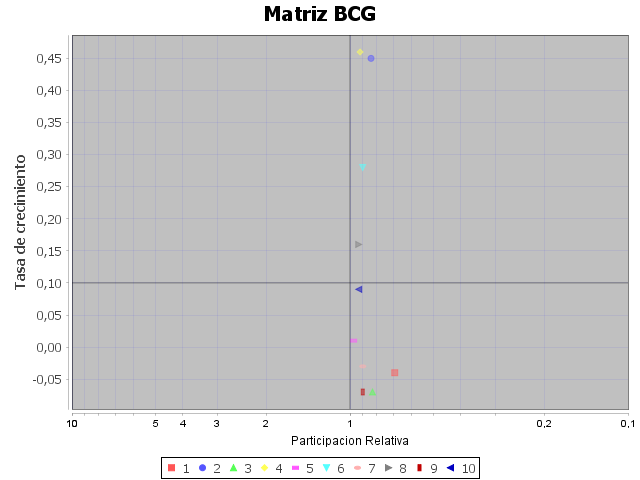
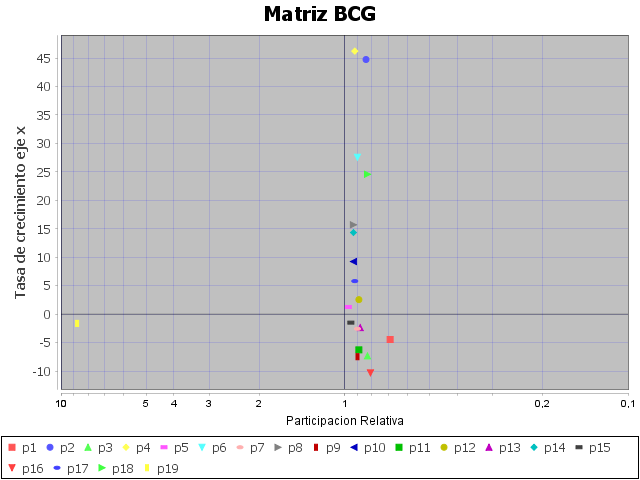
v3

Changed region(s): [[0.0, 0.0625, 1.0, 1.0], [0.9688, 0.9688, 1.0, 1.0], [0.5938, 0.6875, 0.625, 0.7188]]

diff --git a/src/view/dashboard.java b/src/view/dashboard.java
@@ -21,7 +21,9 @@ import java.util.logging.Level;
 import java.util.logging.Logger;
 import javax.swing.JFrame;
 import javax.swing.JPanel;
+import javax.swing.table.AbstractTableModel;
 import javax.swing.table.DefaultTableModel;
+import javax.swing.table.TableModel;
 import model.TablaBcg;
 import model.Usuario;
 import org.jfree.chart.ChartFactory;
@@ -33,6 +35,9 @@ import org.jfree.chart.axis.NumberAxis;
 import org.jfree.chart.plot.PlotOrientation;
 import org.jfree.chart.plot.ValueMarker;
 import org.jfree.chart.plot.XYPlot;
+import org.jfree.data.time.TimeSeries;
+import org.jfree.data.time.TimeSeriesCollection;
+import org.jfree.data.xy.XYDataItem;
 import org.jfree.data.xy.XYDataset;
 import org.jfree.data.xy.XYSeries;
 import org.jfree.data.xy.XYSeriesCollection;
@@ -53,6 +58,7 @@ public class dashboard extends javax.swing.JFrame implements Runnable {
     private DatosBcg cldb;
     clsExportarExcel obj;
     Usuario usuario;
+    static int count = 0;
 
     public dashboard() {
         initComponents();
@@ -79,29 +85,47 @@ public class dashboard extends javax.swing.JFrame implements Runnable {
     }
 
     private XYDataset crearDatos() {
+
         DefaultTableModel miTableModel = (DefaultTableModel) tabla.getModel();
         int nFilas = tabla.getRowCount();
         int n = 0;
         XYSeries series = null;
         XYSeriesCollection datos = new XYSeriesCollection();
         for (int i = 1; i < nFilas; i++) {
-            if (tabla.getValueAt(i, 3) == null || tabla.getValueAt(i, 4) == null) {
-                System.out.println("No hay valores en X o Y");
-            } else {
-                n++;
-                series = new XYSeries(i, true);
+            //initiate new series
+            series = new XYSeries("p" + Integer.toString(i));
+            for (int k = i; k < i + 1; k++) {
                 series.add((double) tabla.getValueAt(i, 3), (double) tabla.getValueAt(i, 4));
-                datos.addSeries(series);
-//                test(series);
-                rangoVaca(series);
-                rangoPerro(series);
-                rangoEstrella(series);
-                rangoInterrogante(series);
+                prueba(series);
             }
 
+            //add series to dataset
+            datos.addSeries(series);
         }
 
         return datos;
+    }
+
+    public XYSeriesCollection functionDataCollecter() {
+        int nFilas = tabla.getRowCount();
+        //a single line on a chart
+        XYSeries series = null;
+
+        //a collection of series
+        XYSeriesCollection dataset = new XYSeriesCollection();
+
+        for (int i = 1; i < nFilas; i++) {
+            //initiate new series
+            series = new XYSeries("p" + Integer.toString(i));
+            for (int k = i; k < i + 1; k++) {
+                series.add((double) tabla.getValueAt(i, 3), (double) tabla.getValueAt(i, 4));
+
+            }
+            //add series to dataset
+            dataset.addSeries(series);
+        }
+        calcularMatrizPrueba(dataset);
+        return dataset;
     }
 
     /**
@@ -389,24 +413,23 @@ public class dashboard extends javax.swing.JFrame implements Runnable {
         pnl1.setLayout(pnl1Layout);
         pnl1Layout.setHorizontalGroup(
             pnl1Layout.createParallelGroup(javax.swing.GroupLayout.Alignment.LEADING)
-            .addGroup(pnl1Layout.createSequentialGroup()
+            .addComponent(jScrollPane2, javax.swing.GroupLayout.Alignment.TRAILING)
+            .addGroup(javax.swing.GroupLayout.Alignment.TRAILING, pnl1Layout.createSequentialGroup()
                 .addContainerGap(javax.swing.GroupLayout.DEFAULT_SIZE, Short.MAX_VALUE)
                 .addComponent(btnGraficar)
                 .addPreferredGap(javax.swing.LayoutStyle.ComponentPlacement.UNRELATED)
                 .addComponent(btnCalcular)
-                .addGap(34, 34, 34))
-            .addComponent(jScrollPane2, javax.swing.GroupLayout.Alignment.TRAILING, javax.swing.GroupLayout.DEFAULT_SIZE, 800, Short.MAX_VALUE)
+                .addGap(27, 27, 27))
         );
         pnl1Layout.setVerticalGroup(
             pnl1Layout.createParallelGroup(javax.swing.GroupLayout.Alignment.LEADING)
             .addGroup(pnl1Layout.createSequentialGroup()
-                .addGap(0, 0, 0)
-                .addComponent(jScrollPane2, javax.swing.GroupLayout.PREFERRED_SIZE, 306, javax.swing.GroupLayout.PREFERRED_SIZE)
-                .addPreferredGap(javax.swing.LayoutStyle.ComponentPlacement.RELATED, 26, Short.MAX_VALUE)
+                .addComponent(jScrollPane2, javax.swing.GroupLayout.PREFERRED_SIZE, 340, javax.swing.GroupLayout.PREFERRED_SIZE)
+                .addGap(18, 18, 18)
                 .addGroup(pnl1Layout.createParallelGroup(javax.swing.GroupLayout.Alignment.BASELINE)
                     .addComponent(btnCalcular)
                     .addComponent(btnGraficar))
-                .addGap(37, 37, 37))
+                .addContainerGap())
         );
 
         rSPanelsSlider1.add(pnl1, "card2");
@@ -421,7 +444,7 @@ public class dashboard extends javax.swing.JFrame implements Runnable {
         );
         pnl2Layout.setVerticalGroup(
             pnl2Layout.createParallelGroup(javax.swing.GroupLayout.Alignment.LEADING)
-            .addGap(0, 392, Short.MAX_VALUE)
+            .addGap(0, 456, Short.MAX_VALUE)
         );
 
         rSPanelsSlider1.add(pnl2, "card3");
@@ -560,7 +583,7 @@ public class dashboard extends javax.swing.JFrame implements Runnable {
                 valorU2 = Double.parseDouble(miTableModel.getValueAt(i - 1, 1).toString());
                 valorUtilidaCompetidor = Double.parseDouble(miTableModel.getValueAt(i, 2).toString());
                 //Calculamos la Tasa de crecimiento
-                tc = (valorU1 - valorU2) / valorU2;
+                tc = (valorU1 - valorU2) / valorU2 * 100;
                 //Limitar la cantidad de Decimales con Math.round
                 miTableModel.setValueAt(Math.round(tc * 1e2) / 1e2, i, 3);
                 //Calculamos la Participacion Relativa
@@ -690,13 +713,13 @@ public class dashboard extends javax.swing.JFrame implements Runnable {
     private JPanel crearGrafica() throws IOException {
 
         String tituloGrafica = "Matriz BCG";
-        String ejeX = "Tasa de crecimiento";
-        String ejeY = "Tasa decrecimiento en %";
+        String ejeX = "Tasa de crecimiento eje x";
+        String ejeY = "Participacion Relativa eje y";
 
-        XYDataset datos = crearDatos();
+        XYDataset datos = functionDataCollecter();
 
         boolean showLegend = true;
-        boolean createURL = false;
+        boolean createURL = true;
         boolean createTooltip = true;
 
         JFreeChart grafica = ChartFactory.createScatterPlot(tituloGrafica,
@@ -721,7 +744,7 @@ public class dashboard extends javax.swing.JFrame implements Runnable {
         return new ChartPanel(grafica);
     }
 
-    private static JFreeChart personalizarGrafica(JFreeChart grafica) throws IOException {
+    private JFreeChart personalizarGrafica(JFreeChart grafica) throws IOException {
 
         XYPlot plot = grafica.getXYPlot();
         plot.setNoDataMessage("NO HAY DATOS");
@@ -736,7 +759,7 @@ public class dashboard extends javax.swing.JFrame implements Runnable {
         NumberAxis domainAxis = (NumberAxis) plot.getDomainAxis();
 
         LogarithmicAxis rangeAxis = new LogarithmicAxis("Participacion Relativa");
-        double position = 0.10;
+        double position = 0;
         ValueMarker marker = new ValueMarker(position);
         marker.setPaint(Color.black);
         plot.addDomainMarker(marker);
@@ -754,7 +777,7 @@ public class dashboard extends javax.swing.JFrame implements Runnable {
 
 //        BufferedImage img = ImageIO.read(new File("src/img/BCG.png"));
 //        plot.setBackgroundImage(img);
-        plot.setForegroundAlpha(0.5f);
+//        plot.setForegroundAlpha(0.5f);
         return grafica;
     }
 
@@ -776,7 +799,6 @@ public class dashboard extends javax.swing.JFrame implements Runnable {
     }
 
     private void test(XYSeries series) {
-
         for (int i = 0; i < series.getItems().size(); i++) {
             double y = series.getX(i).doubleValue();
             double x = series.getY(i).doubleValue();
@@ -796,6 +818,7 @@ public class dashboard extends javax.swing.JFrame implements Runnable {
                 System.out.println("Estrella");
                 //System.out.println(series.getItems());
             }
+            prueba(series);
 
         }
     }
@@ -840,4 +863,64 @@ public class dashboard extends javax.swing.JFrame implements Runnable {
         }
     }
 
+    private void prueba(XYSeries series) {
+        int contadorEstrella = 0,
+                contadoInterrogante = 0,
+                contadorPerro = 0,
+                contadorVaca = 0;
+        for (int i = 0; i < series.getItemCount(); i++) {
+            double y = series.getX(i).doubleValue();
+            double x = series.getY(i).doubleValue();
+            if (x > 1 && y > 0.1) {
+                contadorEstrella++;
+            } else {
+                if (x <= 1 && y > 0.1) {
+                    contadoInterrogante++;
+                } else {
+                    if (x > 1 && y <= 0.1) {
+                        contadorPerro++;
+                    } else {
+                        if (x <= 1 && y <= 0.1) {
+                            contadorVaca++;
+                        }
+                    }
+                }
+            }
+
+        }
+        System.out.println("Hay " + contadorEstrella + "Elementos estrella");
+        System.out.println("Hay " + contadoInterrogante + "Elementos Interrogante");
+        System.out.println("Hay " + contadorPerro + "Elementos Perro");
+        System.out.println("Hay " + contadorVaca + "Elementos Vaca");
+
+    }
+
+    private void calcularMatrizPrueba(XYSeriesCollection dataset) {
+        int contadorEstrella = 0,
+                contadoInterrogante = 0,
+                contadorPerro = 0,
+                contadorVaca = 0;
+        for (int i = 0; i < dataset.getSeriesCount(); i++) {
+            for (int j = 0; j < dataset.getItemCount(i); j++) {
+                double y = dataset.getX(i, j).doubleValue();
+                double x = dataset.getY(i, j).doubleValue();
+                if (x > 1 && y > 0.1) {
+                    contadorEstrella++;
+                } else if (x <= 1 && y > 0.1) {
+                    contadoInterrogante++;
+                } else if (x <= 1 && y <= 0.1) {
+                    contadorPerro++;
+                } else if (x > 1 && y <= 0.1) {
+                    contadorVaca++;
+                }
+
+            }
+
+        }
+        System.out.println("Hay " + contadorEstrella + " Elementos estrella");
+        System.out.println("Hay " + contadoInterrogante + " Elementos Interrogante");
+        System.out.println("Hay " + contadorPerro + " Elementos Perro");
+        System.out.println("Hay " + contadorVaca + " Elementos Vaca");
+
+    }
 }

diff --git a/build/classes/function/LogarithmicAxis.rs b/build/classes/function/LogarithmicAxis.rs
@@ -1,0 +1,3 @@
+LogarithmicAxis$1
+LogarithmicAxis$2
+LogarithmicAxis

diff --git a/build/classes/function/IllegalLogarithmicRangeException.rs b/build/classes/function/IllegalLogarithmicRangeException.rs
@@ -1,0 +1,1 @@
+IllegalLogarithmicRangeException
